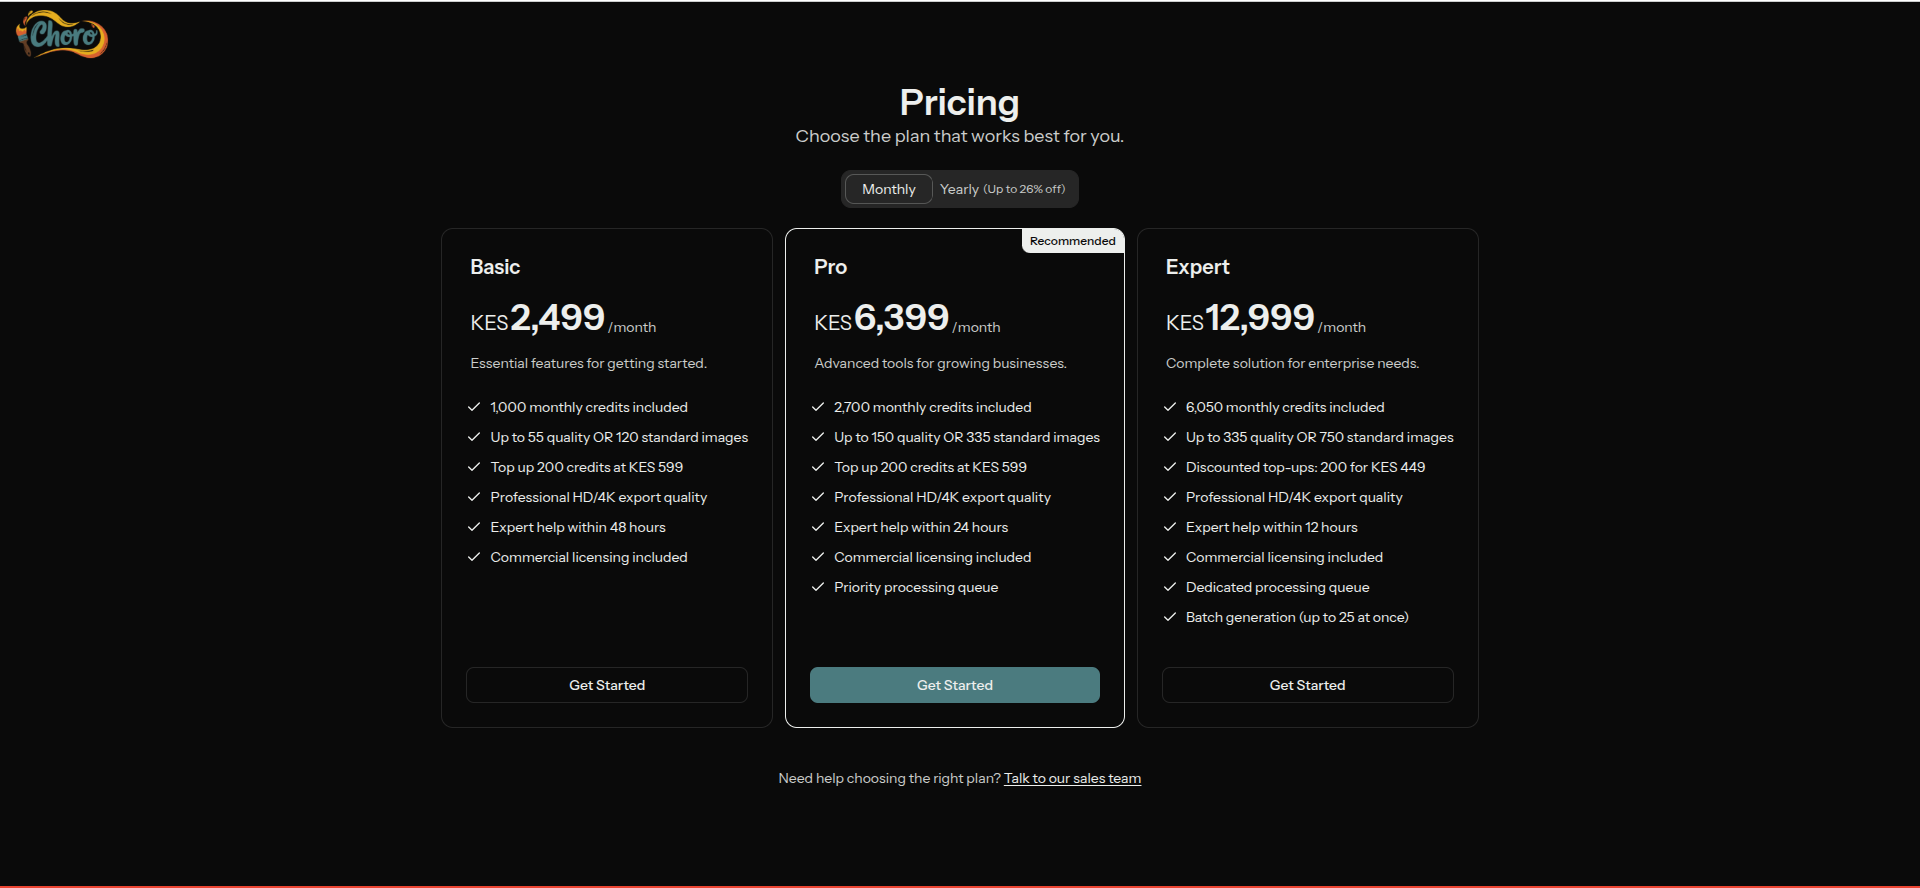
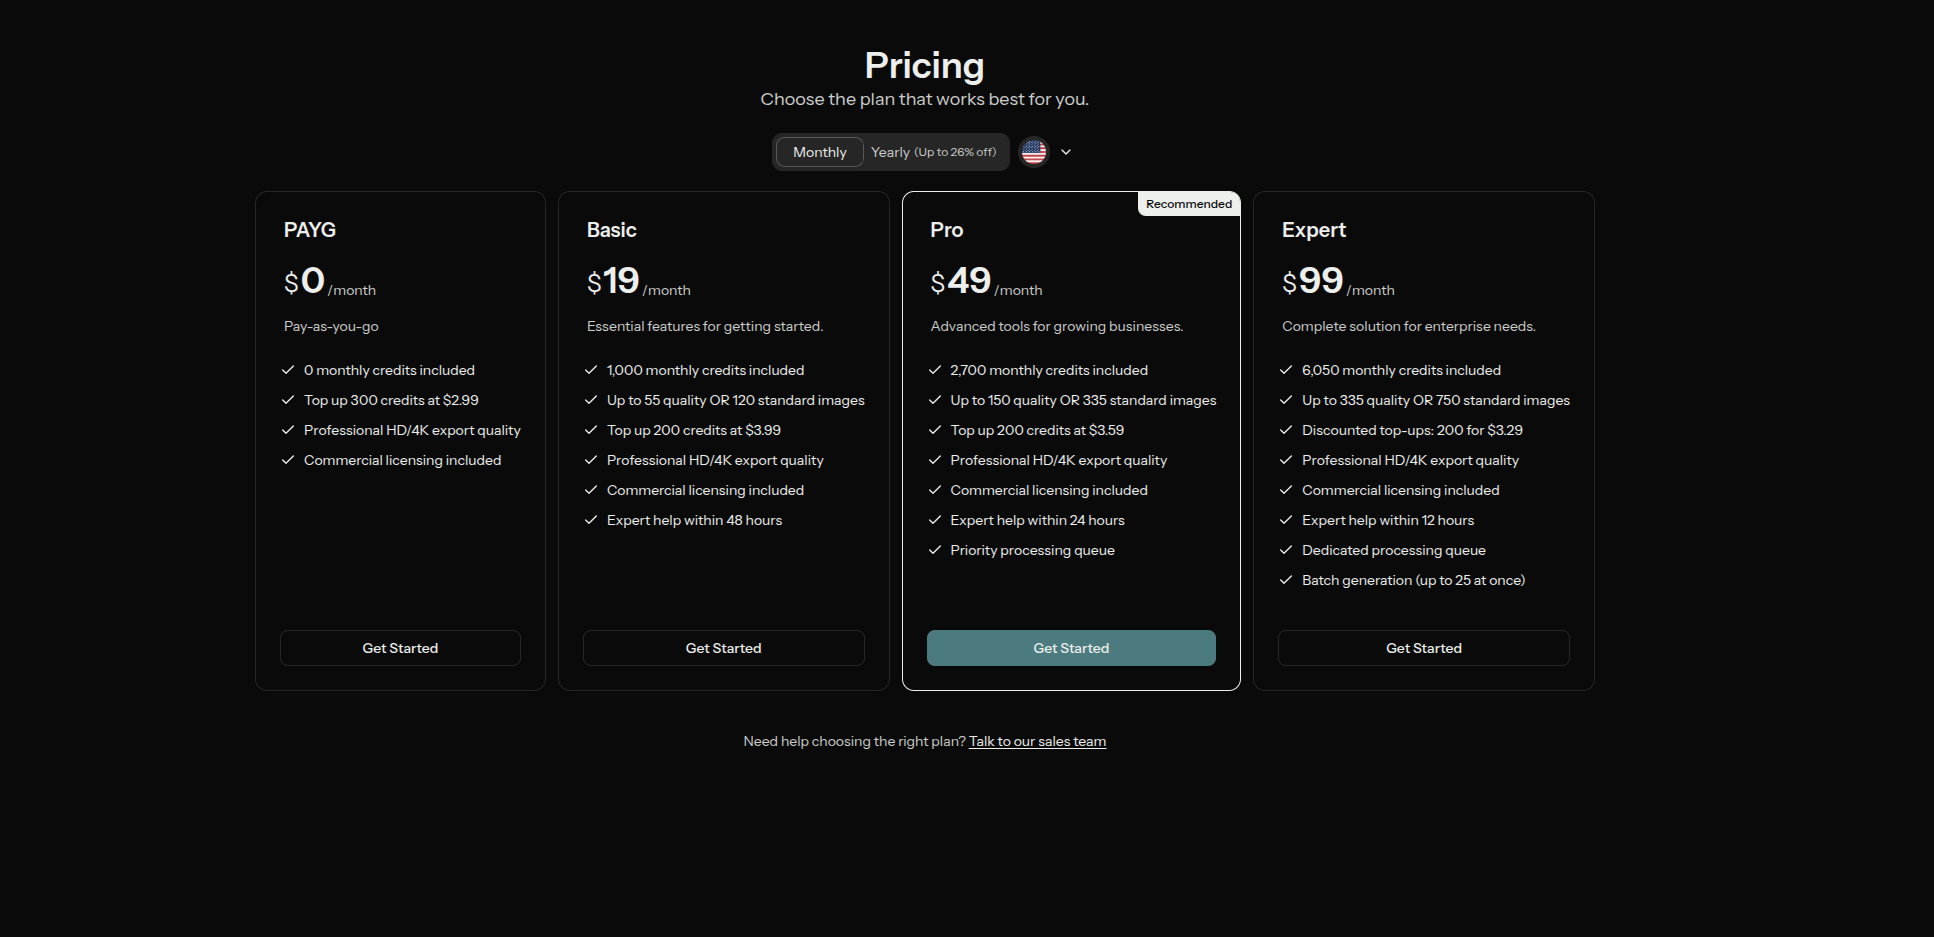
chore: updated pricing

diff --git a/docs/payment/payment.md b/docs/payment/payment.md
@@ -20,9 +20,10 @@ Choose the plan that works best for you.
 
 ## Available Plans
 
-- **Basic** - Essential features for getting started
-- **Pro** - Advanced tools for growing businesses *(Recommended)*
-- **Expert** - Complete solution for enterprise needs
+- **PAYG** - Pay as you go, no monthly commitment - perfect for occasional use
+- **Basic** - Essential features for getting started with 1,000 monthly credits
+- **Pro** - Advanced tools for growing businesses with 2,700 monthly credits *(Recommended)*
+- **Expert** - Complete solution for enterprise needs with 6,050 monthly credits
 
 All plans include commercial licensing and professional HD/4K export quality.
 